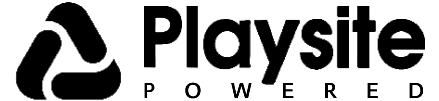
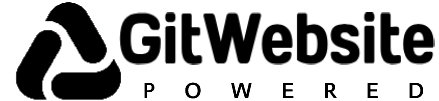
minor big fix

Changed region(s): [[0.2665, 0.0594, 1.0, 0.8614]]

diff --git a/routes/create.js b/routes/create.js
@@ -24,7 +24,7 @@ try {
     
     }
     else{
-      res.redirect('http://localhost:3000/'+result)
+      res.redirect('https://gitwebsite.com/'+result)
     
     }
       })

diff --git a/link.md b/link.md
@@ -1,0 +1,1 @@
+git pull https://calteen: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@github.com/softlink-labs/githost
